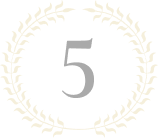
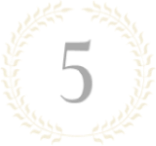
feat: create Awards component

diff --git a/src/components/Awards.jsx b/src/components/Awards.jsx
@@ -1,0 +1,85 @@
+import React from "react";
+import Container from "react-bootstrap/container";
+import Row from "react-bootstrap/row";
+import Col from "react-bootstrap/col";
+import images from "../data/images";
+import data from "../data/data";
+import Title from "./Title";
+const awards = data.awards;
+
+const Awards = () => {
+  return (
+    <div className="bg-brown">
+      <img className="ps-4 pt-4" width={"10%"} src={images.logo} alt="logo" />
+      <Container className="py-5">
+        <Row>
+          <Col md={8} className="d-flex flex-column">
+            <Title title={"獲獎"} subTitle={"美食指南獎項"} />
+            <Row className={"pt-5"}>
+              <Col>
+                <>
+                  {awards.map((item, index) => {
+                    // Start a new row for every even item (0, 2, ...)
+                    if (index % 2 === 0) {
+                      return (
+                        <Row key={index} className="py-3">
+                          <Col className="d-flex">
+                            <div>
+                              <img
+                                className="w-100"
+                                src={item.imgUrl}
+                                alt="award"
+                              />
+                            </div>
+                            <div className="ps-3">
+                              <span className="golden-text fs-4">
+                                {awards[index].title}
+                              </span>
+                              <br />
+                              <span className="fs-5 text-white fw-bold">
+                                {awards[index].subtitle}
+                              </span>
+                            </div>
+                          </Col>
+                          {/* Check if there is a next item before rendering the second column */}
+                          {awards[index + 1] && (
+                            <Col className="d-flex">
+                              <div>
+                                <img
+                                  className="w-100"
+                                  src={awards[index + 1].imgUrl}
+                                  alt="award"
+                                />
+                              </div>
+                              <div className="ps-3">
+                                <span className="golden-text fs-4">
+                                  {awards[index + 1].title}
+                                </span>
+                                <br />
+                                <span className="fs-5 text-white fw-bold">
+                                  {awards[index + 1].subtitle}
+                                </span>
+                              </div>
+                            </Col>
+                          )}
+                        </Row>
+                      );
+                    }
+                  })}
+                </>
+              </Col>
+            </Row>
+          </Col>
+          <Col
+            md={4}
+            className="d-flex align-items-md-end justify-content-center"
+          >
+            <img className="laurels" src={images.laurels} alt="laurels" />
+          </Col>
+        </Row>
+      </Container>
+    </div>
+  );
+};
+
+export default Awards;

diff --git a/src/data/data.js b/src/data/data.js
@@ -59,22 +59,22 @@ const awards = [
   {
     imgUrl: images.award02,
     title: "Bib Gourmond",
-    subtitle: "Lorem ipsum dolor sit amet, consectetur.",
+    subtitle: "美食指南的崛起之星",
   },
   {
     imgUrl: images.award01,
     title: "Rising Star",
-    subtitle: "Lorem ipsum dolor sit amet, consectetur.",
+    subtitle: "炙手可熱的亞洲廚師",
   },
   {
     imgUrl: images.award05,
     title: "AA Hospitality",
-    subtitle: "Lorem ipsum dolor sit amet, consectetur.",
+    subtitle: "傑出廚師肯定",
   },
   {
     imgUrl: images.award03,
     title: "Outstanding Chef",
-    subtitle: "Lorem ipsum dolor sit amet, consectetur.",
+    subtitle: "卓越廚師，出眾之選",
   },
 ];
 

diff --git a/src/css/custom.css b/src/css/custom.css
@@ -66,6 +66,25 @@
      object-fit: cover;
 }
 
-.overlay {
+.play-btn {
   cursor: pointer;
+}
+
+@media (min-width: 300px) {
+  .laurels {
+    max-width: 40%;
+  }
+}
+@media (min-width: 800px) {
+  .laurels {
+    max-width: 110%;
+    position: relative;
+    bottom: 3rem;
+  }
+}
+@media (min-width: 1200px) {
+  .laurels {
+    max-width: 105%;
+    bottom: 0;
+  }
 }/*# sourceMappingURL=custom.css.map */

diff --git a/src/css/custom.scss b/src/css/custom.scss
@@ -58,7 +58,21 @@
     object-fit: cover;
   }
 }
-
-.overlay {
+.play-btn {
   cursor: pointer;
+}
+.laurels {
+  @media (min-width: 300px) {
+    max-width: 40%;
+  }
+  @media (min-width: 800px) {
+    max-width: 110%;
+    position: relative;
+    bottom: 3rem;
+  }
+
+  @media (min-width: 1200px) {
+    max-width: 105%;
+    bottom: 0;
+  }
 }
